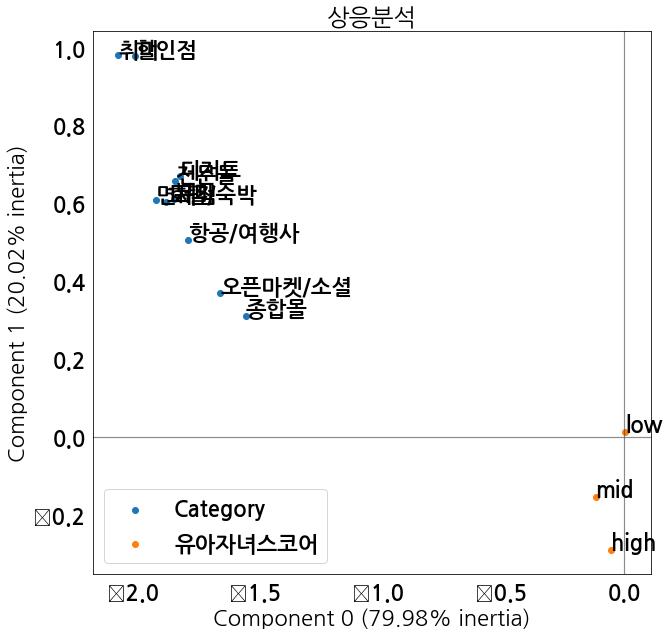
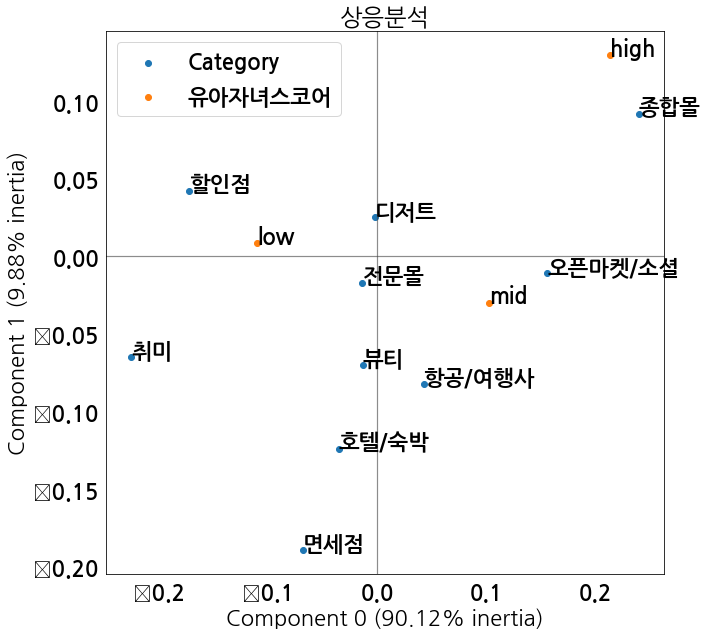
rebuilding site Fri Sep 18 09:28:51 KST 2020

diff --git a/python/python_edu/competition/samsungcard20/samsung_card_track_2_3/index.html b/python/python_edu/competition/samsungcard20/samsung_card_track_2_3/index.html
@@ -501,7 +501,7 @@ plt<span style="color:#f92672">.</span>rc(<span style="color:#e6db74">&#39;font&
 </span><span style="color:#e6db74">    Component2 -- 스코어 변수명 (default None)
 </span><span style="color:#e6db74">    &#34;&#34;&#34;</span>
     ca_model <span style="color:#f92672">=</span> pd<span style="color:#f92672">.</span>crosstab(X[component1], X[component2], margins<span style="color:#f92672">=</span>False)
-    prince<span style="color:#f92672">.</span>CA(n_components<span style="color:#f92672">=</span><span style="color:#ae81ff">2</span>)<span style="color:#f92672">.</span>fit(ca_model)
+    ca <span style="color:#f92672">=</span> prince<span style="color:#f92672">.</span>CA(n_components<span style="color:#f92672">=</span><span style="color:#ae81ff">2</span>)<span style="color:#f92672">.</span>fit(ca_model)
     ax <span style="color:#f92672">=</span> ca<span style="color:#f92672">.</span>plot_coordinates(X <span style="color:#f92672">=</span> ca_model, figsize<span style="color:#f92672">=</span>(<span style="color:#ae81ff">10</span>, <span style="color:#ae81ff">10</span>))
     ax<span style="color:#f92672">.</span>set_title(<span style="color:#e6db74">&#34;상응분석&#34;</span>, fontsize <span style="color:#f92672">=</span> <span style="color:#ae81ff">24</span>)
 
@@ -533,18 +533,11 @@ plt<span style="color:#f92672">.</span>rc(<span style="color:#e6db74">&#39;font&
 </code></pre>
 <p><img src="/img/python_edu/competition/samsungcard20/samsung_card_track_2_3/output_28_1.png" alt="png"></p>
 <ul>
-<li>유아자녀 스코어는 위 상응분석의 결과로 판단할 수는 없다.
+<li>위 해석은 어떻게 하면 좋을까?
 <ul>
-<li>이럴경우에는 유아자녀스코어만 별도로 취급해서 데이터 탐색을 진행해야 맞을 것 같다.</li>
+<li>독자들의 판단에 맡긴다.</li>
 </ul>
 </li>
-<li>굳이 의미를 부여한다면, 유아자녀스코어에 상관없이, <code>오픈마켓/소셜</code>, <code>종합몰</code>과 거리가 가까웠다.
-<ul>
-<li>즉, <code>오픈마켓/소셜</code> &amp; <code>할인몰</code>에 소비 성향이 두드러진 것을 확인할 수 있다.</li>
-</ul>
-</li>
-<li>마찬가지로 나머지 스코어에서도 상응분석만으로는 유의미한 결과를 얻지는 못했다.</li>
-<li>이럴 경우에는 다중 상응분석을 진행해서 확인을 한번 해보도록 한다.</li>
 </ul>
 <h2 id="결론">결론</h2>
 <ul>
